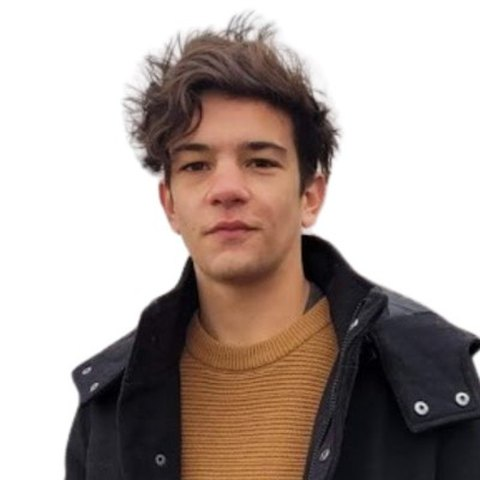
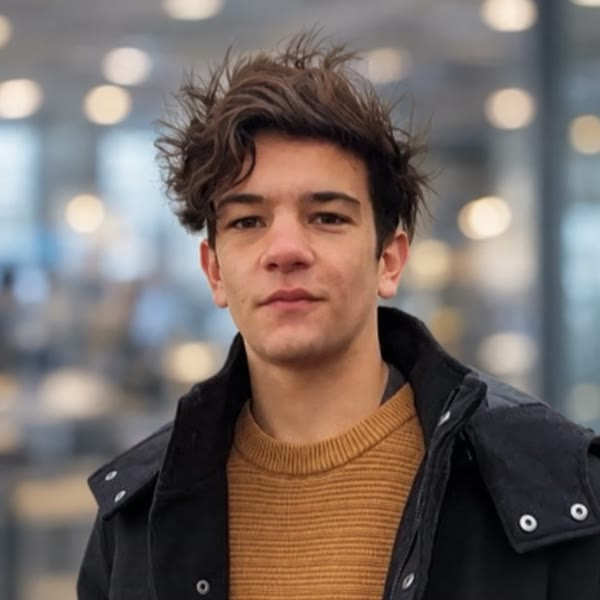
Equipo: fotos nuevas de Matías y Luciana, tarjetas más compactas y Yanny centrada debajo

diff --git a/public/recorrido-afiches.css b/public/recorrido-afiches.css
@@ -331,3 +331,20 @@ html{scroll-padding-top:125px}
 .person-sm .bg{margin-top:4px}
 @media(max-width:850px){.team .person:nth-child(3):not(.person-sm){grid-column:1/-1;justify-self:center;width:min(100%,440px)}}
 @media(max-width:560px){.team .person:nth-child(3):not(.person-sm){width:100%}.person-sm{padding:16px 18px;gap:14px}.person-sm .avatar{width:60px;height:60px}}
+
+/* v23 · equipo más compacto; Yanny centrada debajo */
+.team{max-width:780px;gap:16px}
+.person{padding:22px 18px 20px;border-radius:18px}
+.person .avatar{width:112px;height:112px;margin-bottom:14px}
+.person .avatar:before{inset:-6px}
+.person .avatar:after{width:20px;height:20px;border-width:3px;right:0;bottom:4px}
+.person h3{font-size:17px}
+.person .role{font-size:12px}
+.person .bg{font-size:11.5px;margin-top:6px}
+.person-sm{display:block;text-align:center;width:min(100%,250px);margin-top:18px;padding:18px 16px}
+.person-sm .avatar{width:72px;height:72px;margin:0 auto 10px}
+.person-sm h3{font-size:15px}
+.person-sm .role{font-size:11.5px}
+.person-sm .bg{font-size:11px}
+@media(max-width:850px){.team .person:nth-child(3):not(.person-sm){width:min(100%,360px)}}
+@media(max-width:560px){.team{max-width:340px}.person .avatar{width:100px;height:100px}.person-sm .avatar{width:64px;height:64px}}
